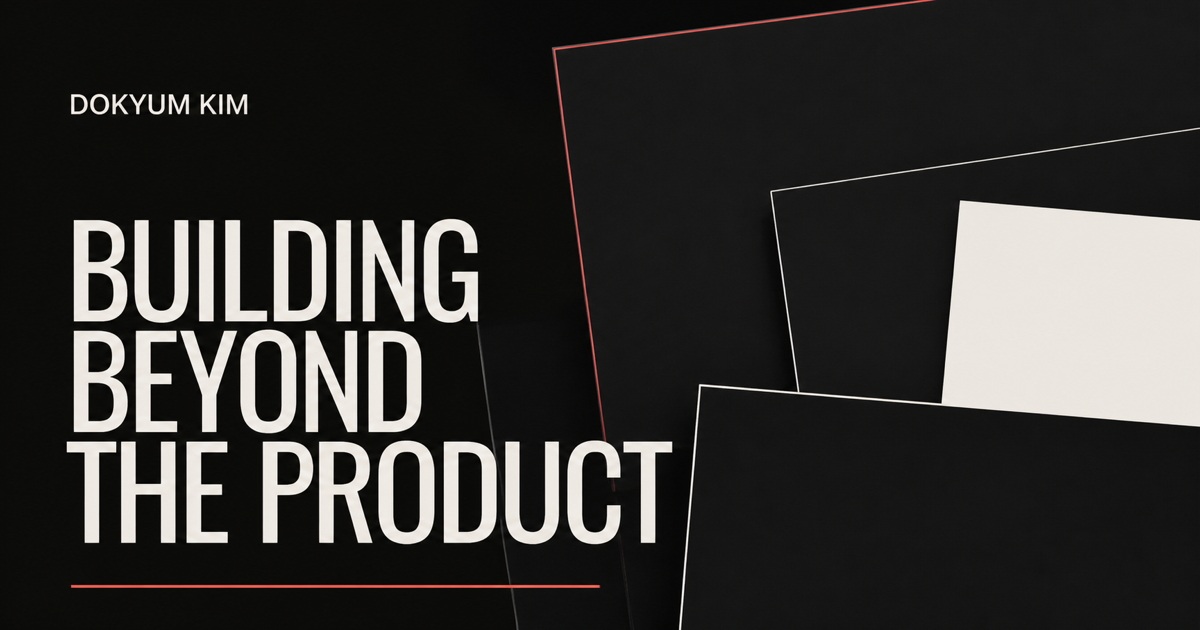
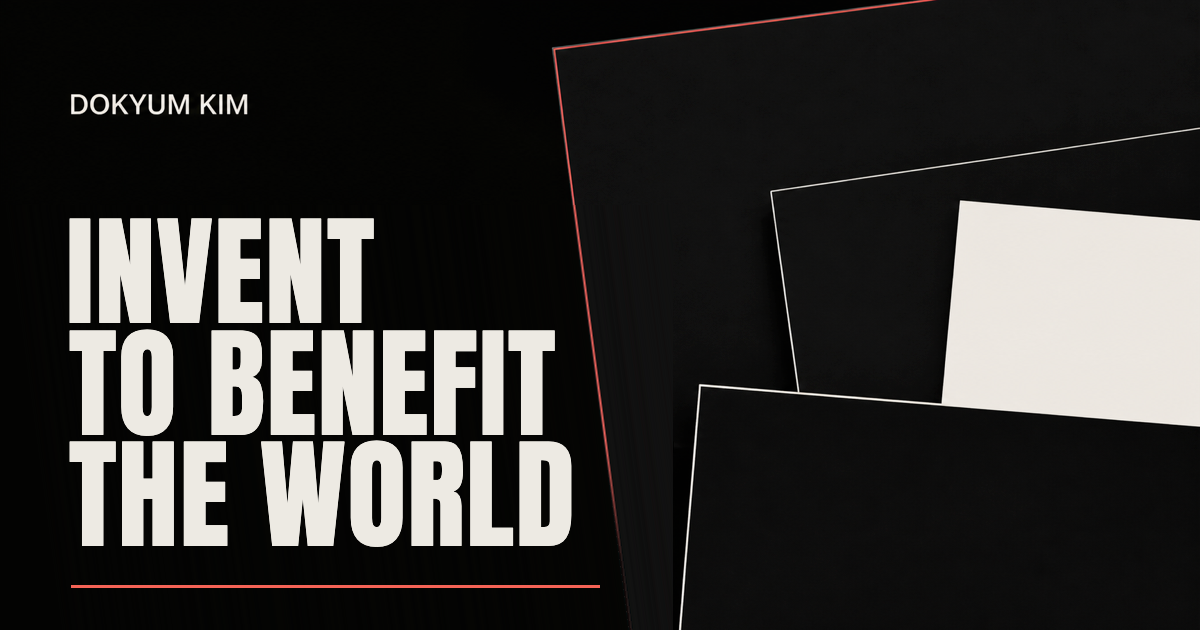
feat: rewrite the landing thesis and give each card a project overview
The landing headline is now "발명으로 세상을 이롭게 만들자" with the eyebrow
"INVENT TO BENEFIT THE WORLD".

Card captions used to lead with the problem a project solved, which reads as
jargon to a first-time visitor: "고객 인터뷰와 MVP 테스트로 O2O 소개팅 서비스를
0to1 출시" never says what Coffeeting is. Each card now opens with what the
product is (drawn from the case study's own tagline) and follows with the role
I held, so `problemLine` became `overviewLine` and the caption gained a second
line fed by the existing `role` field rather than a near-duplicate one.

The caption is a line taller, so the runway's headroom grew from 5.5rem to 7rem
(4.5rem to 6rem on mobile). That figure is measured, not guessed: 8.5rem fit the
tallest caption but pushed the cards past the fold at 1280x720 and broke the
hover test.

The social preview kept its artwork; only the headline band was rebuilt and
re-typeset, and the career hero and metadata now echo the new thesis.

Changed region(s): [[0.0308, 0.3317, 0.5858, 0.8746], [0.0617, 0.9048, 0.4933, 0.9349]]

diff --git a/src/content/projects.ts b/src/content/projects.ts
@@ -27,8 +27,8 @@ export type Project = {
   name: string;
   kind: ProjectKind;
   category: string;
-  /** Which problem the project solved; shown on the landing runway and neighbour links. */
-  problemLine: string;
+  /** What the product is; shown on the landing runway and neighbour links. */
+  overviewLine: string;
   /** Project traits shown as hashtags in the Work menu. */
   tags: readonly string[];
   role: string;
@@ -53,7 +53,7 @@ export const projects = [
     name: "Snode",
     category: "FIELD APP · OPERATIONS",
     kind: "career",
-    problemLine: "작업 기록의 오류로 추가 수주를 못하는 문제를 해결하는 앱·어드민 개발",
+    overviewLine: "건설 현장의 출력과 작업을 앱으로 기록해 건설사 제출용 작업일지를 만드는 시스템",
     tags: ["#0to1", "#E2E", "#운영프로세스개선", "#AI업무적용"],
     role: "PO · 기획 · 운영 관리",
     period: "2025.05–2026.02",
@@ -76,7 +76,7 @@ export const projects = [
     name: "Coffeeting",
     category: "MVP · PRODUCT MARKET LEARNING",
     kind: "career",
-    problemLine: "고객 인터뷰와 MVP 테스트로 O2O 소개팅 서비스를 0to1 출시",
+    overviewLine: "원하는 조건을 남기면 매니저가 매칭부터 카페 예약까지 해주는 3만원 소개팅 서비스",
     tags: ["#0to1", "#E2E", "#고객가설검증", "#요구사항구조화"],
     role: "PM · 기획 · F.E. 개발",
     period: "2023.05–2023.10",
@@ -98,7 +98,7 @@ export const projects = [
     name: "Matching Admin",
     category: "BACK OFFICE · AUTOMATION",
     kind: "career",
-    problemLine: "매칭 매니저 업무의 효율 증가를 목표로 업무 유형에 따라 자동화·최적화",
+    overviewLine: "매니저가 남녀 매칭부터 만남 조율, 안내, 비상 대응까지 처리하는 커피팅 운영 어드민",
     tags: ["#백오피스E2E", "#업무자동화", "#운영효율화"],
     role: "PM · 기획 · 디자인 · 개발 관리",
     period: "2023.09–2024.11",
@@ -120,7 +120,7 @@ export const projects = [
     name: "Moum",
     category: "FUNNEL · SUPPLY GROWTH",
     kind: "career",
-    problemLine: "사용자가 관심 가는 클래스가 없어 낮았던 상품 클릭률을 개선",
+    overviewLine: "꽃꽂이, 공방, 산책 같은 원데이 클래스에서 3:3으로 만나는 데이팅 서비스",
     tags: ["#퍼널분석", "#전환율개선", "#고객리서치"],
     role: "PM · 기획 · 디자인 · F.E. 개발",
     period: "2022.10–2023.01",
@@ -142,7 +142,7 @@ export const projects = [
     name: "Butlerlee",
     category: "OWNED WEB · MEMBERSHIP",
     kind: "career",
-    problemLine: "예약의 97%가 OTA에 집중된 구조를 자사 웹과 멤버십 중심으로 전환",
+    overviewLine: "서촌과 북촌에서 한옥 스테이를 운영하는 숙박 서비스",
     tags: ["#자사웹전환", "#멤버십설계", "#OTA의존도개선", "#외주개발관리"],
     role: "PM · 웹 기획 · 운영 관리",
     period: "2022.03–2022.09",
@@ -164,7 +164,7 @@ export const projects = [
     name: "Touchpoint",
     category: "0→1 PRODUCT · AI SYSTEM BUILD",
     kind: "independent",
-    problemLine: "1인 개발의 처리량 한계를 AI 에이전트 하네스로 풀어 0→1 제품을 구축·운영",
+    overviewLine: "창작자와 전문가가 제안, 요청, 일정, 결제를 한 프로필 링크에서 관리하는 서비스",
     tags: ["#0to1", "#1인빌드", "#AI하네스", "#에이전트워크플로", "#일정결제통합"],
     role: "Founding Product Builder · PO · AI 시스템 설계 · 개발",
     period: "2026–NOW",

diff --git a/src/components/landing/project-runway.test.tsx b/src/components/landing/project-runway.test.tsx
@@ -4,7 +4,7 @@ import { afterEach, describe, expect, it, vi } from "vitest";
 import { projects } from "@/content/projects";
 import { ProjectRunway } from "./project-runway";
 
-const thesis = "제품 너머 병목까지 찾아, 사업이 성장하는 구조를 만듭니다.";
+const thesis = "발명으로 세상을 이롭게 만들자";
 
 function primaryCard(name: string) {
   return screen.getByRole("link", { name: `${name} 프로젝트 보기` });
@@ -38,14 +38,10 @@ describe("ProjectRunway", () => {
     const { container } = render(<ProjectRunway projects={projects} />);
     const words = Array.from(container.querySelectorAll<HTMLElement>(".landing-thesis-word"));
     expect(words.map((word) => word.textContent?.trim())).toEqual([
-      "제품",
-      "너머",
-      "병목까지",
-      "찾아,",
-      "사업이",
-      "성장하는",
-      "구조를",
-      "만듭니다.",
+      "발명으로",
+      "세상을",
+      "이롭게",
+      "만들자",
     ]);
     const delays = words.map((word) => Number.parseFloat(word.style.animationDelay));
     for (let index = 1; index < delays.length; index += 1) {
@@ -64,12 +60,13 @@ describe("ProjectRunway", () => {
     expect(screen.getAllByRole("link")).toHaveLength(projects.length);
   });
 
-  it("captions each card with its name and the problem it solved, tagging independent work only", () => {
+  it("captions each card with its name, overview, and my role, tagging independent work only", () => {
     const { container } = render(<ProjectRunway projects={projects} />);
     for (const project of projects) {
       const card = within(primaryCard(project.name));
-      const caption = card.getByText(project.problemLine).closest(".project-card-caption")!;
+      const caption = card.getByText(project.overviewLine).closest(".project-card-caption")!;
       expect(caption).toHaveTextContent(project.name);
+      expect(caption).toHaveTextContent(project.role);
       if (project.kind === "independent") {
         expect(caption).toHaveTextContent("INDEPENDENT");
       } else {

diff --git a/src/app/globals.css b/src/app/globals.css
@@ -216,7 +216,7 @@ a:focus-visible, button:focus-visible {
   --runway-gutter: clamp(1rem, 3vw, 3rem);
   position: relative;
   margin-top: clamp(1.5rem, 2.5vw, 2rem);
-  padding-top: 5.5rem; /* room for the captions that rise above a hovered card */
+  padding-top: 7rem; /* room for the captions that rise above a hovered card */
   overflow: hidden;
   overflow: clip;
   cursor: grab;
@@ -290,6 +290,15 @@ a:focus-visible, button:focus-visible {
   color: var(--muted);
   font-size: 0.82rem;
   line-height: 1.35;
+  word-break: keep-all;
+}
+.project-card-role {
+  color: var(--muted);
+  font-family: var(--font-mono);
+  font-size: 0.68rem;
+  letter-spacing: -0.02em;
+  line-height: 1.35;
+  opacity: 0.72;
   word-break: keep-all;
 }
 /* Card sizes are drawn on the 1440 canvas and follow each image's own orientation. */
@@ -1128,13 +1137,14 @@ a:focus-visible, button:focus-visible {
     --runway-gap: 1.35vw;
     --runway-gutter: 1rem;
     margin-top: 2.5rem;
-    padding-top: 4.5rem;
+    padding-top: 6rem;
   }
   /* Full-bleed cards with captions always showing; no accordion on touch so tap targets stay put. */
   .project-card { transition: none; }
   .project-card-caption { bottom: calc(100% + 0.6rem); opacity: 1; transform: none; }
   .project-card-name { font-size: 0.66rem; }
   .project-card-line { font-size: 0.78rem; }
+  .project-card-role { font-size: 0.64rem; }
   .project-card[data-project="snode"], .project-card[data-project="snode"]:hover { width: 80.6vw; height: 97.4vw; }
   .project-card[data-project="coffeeting"], .project-card[data-project="coffeeting"]:hover { width: 55vw; }
   .project-card[data-project="matching-admin"], .project-card[data-project="matching-admin"]:hover { width: 85vw; }

diff --git a/src/components/landing/project-runway.tsx b/src/components/landing/project-runway.tsx
@@ -11,7 +11,7 @@ import { Fragment, useEffect, useRef, useState } from "react";
 
 import { projectKindLabels, type Project } from "@/content/projects";
 
-const thesisLines = ["제품 너머 병목까지 찾아,", "사업이 성장하는 구조를 만듭니다."] as const;
+const thesisLines = ["발명으로", "세상을 이롭게 만들자"] as const;
 const thesisWords = thesisLines.map((line) => line.split(" "));
 const DRIFT_SPEED = 26; // px per second
 const DRAG_THRESHOLD = 6;
@@ -220,7 +220,7 @@ export function ProjectRunway({ projects }: { projects: readonly Project[] }) {
   return (
     <section className="landing-hero" aria-labelledby="landing-title">
       <div className="landing-thesis">
-        <p>BUILDING BEYOND THE PRODUCT</p>
+        <p>INVENT TO BENEFIT THE WORLD</p>
         <h1 id="landing-title">
           {thesisWords.map((words, lineIndex) => {
             const wordStart = thesisWords
@@ -286,7 +286,8 @@ export function ProjectRunway({ projects }: { projects: readonly Project[] }) {
                       ) : null}
                       {project.name}
                     </span>
-                    <span className="project-card-line">{project.problemLine}</span>
+                    <span className="project-card-line">{project.overviewLine}</span>
+                    <span className="project-card-role">{project.role}</span>
                   </span>
                   <span className="project-card-image">
                     <Image

diff --git a/src/app/layout.tsx b/src/app/layout.tsx
@@ -20,7 +20,7 @@ export const metadata: Metadata = {
     template: "%s — dokyum kim",
   },
   description:
-    "제품 너머 병목까지 찾아, 사업이 성장하는 구조를 만드는 dokyum kim의 포트폴리오입니다.",
+    "발명으로 세상을 이롭게 만들자는 마음으로 제품을 만드는 dokyum kim의 포트폴리오입니다.",
   authors: [{ name: "dokyum kim" }],
   creator: "dokyum kim",
   alternates: {
@@ -30,21 +30,21 @@ export const metadata: Metadata = {
     locale: "ko_KR",
     type: "website",
     title: "dokyum kim — Product Portfolio",
-    description: "제품 너머 병목까지 찾아, 사업이 성장하는 구조를 만듭니다.",
+    description: "발명으로 세상을 이롭게 만들자.",
     url: "/",
     images: [
       {
         url: "/og.png",
         width: 1200,
         height: 630,
-        alt: "DOKYUM KIM — Building Beyond the Product",
+        alt: "DOKYUM KIM — Invent to Benefit the World",
       },
     ],
   },
   twitter: {
     card: "summary_large_image",
     title: "dokyum kim — Product Portfolio",
-    description: "제품 너머 병목까지 찾아, 사업이 성장하는 구조를 만듭니다.",
+    description: "발명으로 세상을 이롭게 만들자.",
     images: ["/og.png"],
   },
 };

diff --git a/src/content/projects.test.ts b/src/content/projects.test.ts
@@ -31,11 +31,11 @@ describe("projects", () => {
     expect(getProjectsByKind("independent").map(({ slug }) => slug)).toEqual(["touchpoint"]);
   });
 
-  it("keeps every slug, route, and problem line unique", () => {
+  it("keeps every slug, route, and overview line unique", () => {
     expect(new Set(projects.map(({ slug }) => slug)).size).toBe(6);
     expect(new Set(projects.map(({ route }) => route)).size).toBe(6);
-    expect(new Set(projects.map(({ problemLine }) => problemLine)).size).toBe(6);
-    expect(projects.every(({ problemLine }) => problemLine.length > 0)).toBe(true);
+    expect(new Set(projects.map(({ overviewLine }) => overviewLine)).size).toBe(6);
+    expect(projects.every(({ overviewLine }) => overviewLine.length > 0)).toBe(true);
   });
 
   it("describes every project with hashtags for the Work menu", () => {
@@ -57,7 +57,7 @@ describe("projects", () => {
     expect(text).not.toMatch(/매출|사용자 수|예약 수|방문자/);
     expect(text).toContain("6개월");
     expect(text).not.toContain("7개월");
-    expect(touchpoint?.problemLine).toContain("AI");
+    expect(touchpoint?.role).toContain("AI");
     expect(touchpoint?.tags).toContain("#AI하네스");
   });
 

diff --git a/src/components/work/project-navigation.tsx b/src/components/work/project-navigation.tsx
@@ -25,7 +25,7 @@ export function ProjectNavigation({ slug }: { slug: ProjectSlug }) {
             <span className="work-navigation-arrow" aria-hidden="true">←</span> 이전 프로젝트
           </span>
           <strong>{previous.name}</strong>
-          <span className="work-navigation-line">{previous.problemLine}</span>
+          <span className="work-navigation-line">{previous.overviewLine}</span>
           <NavigationThumb project={previous} />
         </a>
       ) : (
@@ -41,7 +41,7 @@ export function ProjectNavigation({ slug }: { slug: ProjectSlug }) {
             다음 프로젝트 <span className="work-navigation-arrow" aria-hidden="true">→</span>
           </span>
           <strong>{next.name}</strong>
-          <span className="work-navigation-line">{next.problemLine}</span>
+          <span className="work-navigation-line">{next.overviewLine}</span>
           <NavigationThumb project={next} />
         </a>
       ) : (

diff --git a/e2e/portfolio.spec.ts b/e2e/portfolio.spec.ts
@@ -55,7 +55,7 @@ test("landing CTA, project journey, and PDF are available", async ({ page, reque
   await page.emulateMedia({ reducedMotion: "reduce" });
   await page.goto("/");
 
-  await expect(page.getByRole("heading", { name: /제품 너머 병목까지/ })).toBeVisible();
+  await expect(page.getByRole("heading", { name: /세상을 이롭게 만들자/ })).toBeVisible();
   const footer = page.locator(".site-footer");
   await expect(footer.getByRole("link", { name: "CONTACT" })).toHaveAttribute(
     "href",

diff --git a/src/app/career/page.tsx b/src/app/career/page.tsx
@@ -18,7 +18,7 @@ export default function CareerPage() {
         <p className="career-hero-kicker">CAREER / PRODUCT / OPERATIONS</p>
         <h1>2018 — NOW</h1>
         <p className="career-hero-summary">
-          제품 너머 병목까지 찾아, 사업이 성장하는 구조를 만들어 왔습니다.
+          발명으로 세상을 이롭게 만들자는 마음으로 제품을 만들어 왔습니다.
         </p>
       </header>
 
